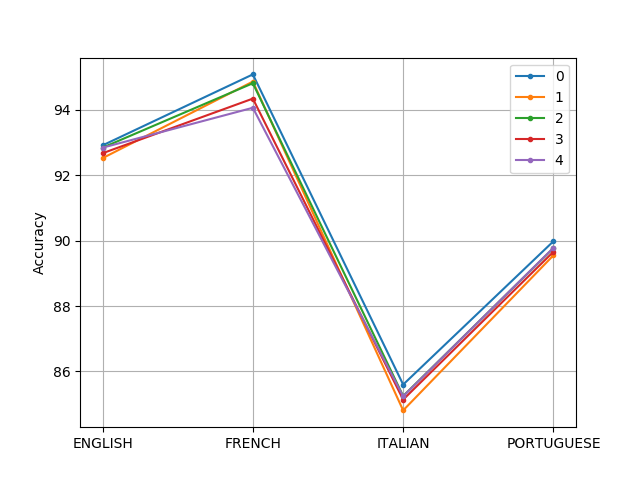
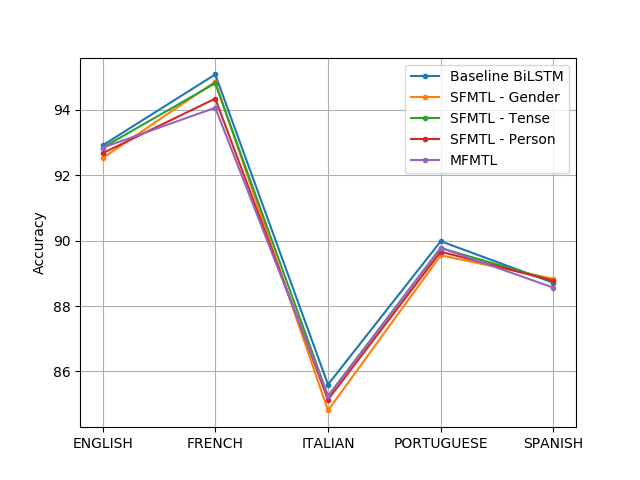
graphs are done

diff --git a/project/code/graphs.py b/project/code/graphs.py
@@ -1,23 +1,34 @@
 import pandas as pd
 import matplotlib.pyplot as plt
+import numpy as np
 
-graph_name = 'unseen'
-file_path = './{0}.csv'.format(graph_name)
+map = {'Baseline BiLSTM': 1,
+       'SFMTL - Gender': 2,
+       'SFMTL - Tense': 3,
+       'SFMTL - Person': 4,
+       'MFMTL': 5}
 
-df = pd.read_csv(file_path).transpose()
+for graph_name in ('accuracy', 'ambigous', 'unseen'):
+    file_path = './{0}.csv'.format(graph_name)
 
-plt.figure()
-plt.tight_layout()
+    df = pd.read_csv(file_path).transpose()
+    models = list(df.iloc[0].values)
+    languages = df.index.values[1:]
 
-df.plot(grid=True, style='.-')
+    df.iloc[0] = pd.to_numeric(df.iloc[0], errors='coerce')
+    df.drop(df.index[0], inplace=True)
 
-languages = df.index.values
-plt.xticks(range(len(languages)), languages)
+    plt.figure()
+    plt.tight_layout()
 
-plt.ylabel('Accuracy')
-plt.legend(['m1', 'm2', 'm3', 'm4'], loc='best')
+    df.plot(grid=True, style='.-')
 
-plt.savefig('{0}.png'.format(graph_name))
-plt.show()
+    plt.xticks(range(len(languages)), languages)
+
+    plt.ylabel('Accuracy')
+    plt.legend(models, loc='best')
+
+    plt.savefig('{0}.png'.format(graph_name))
+    plt.show()
 
 
